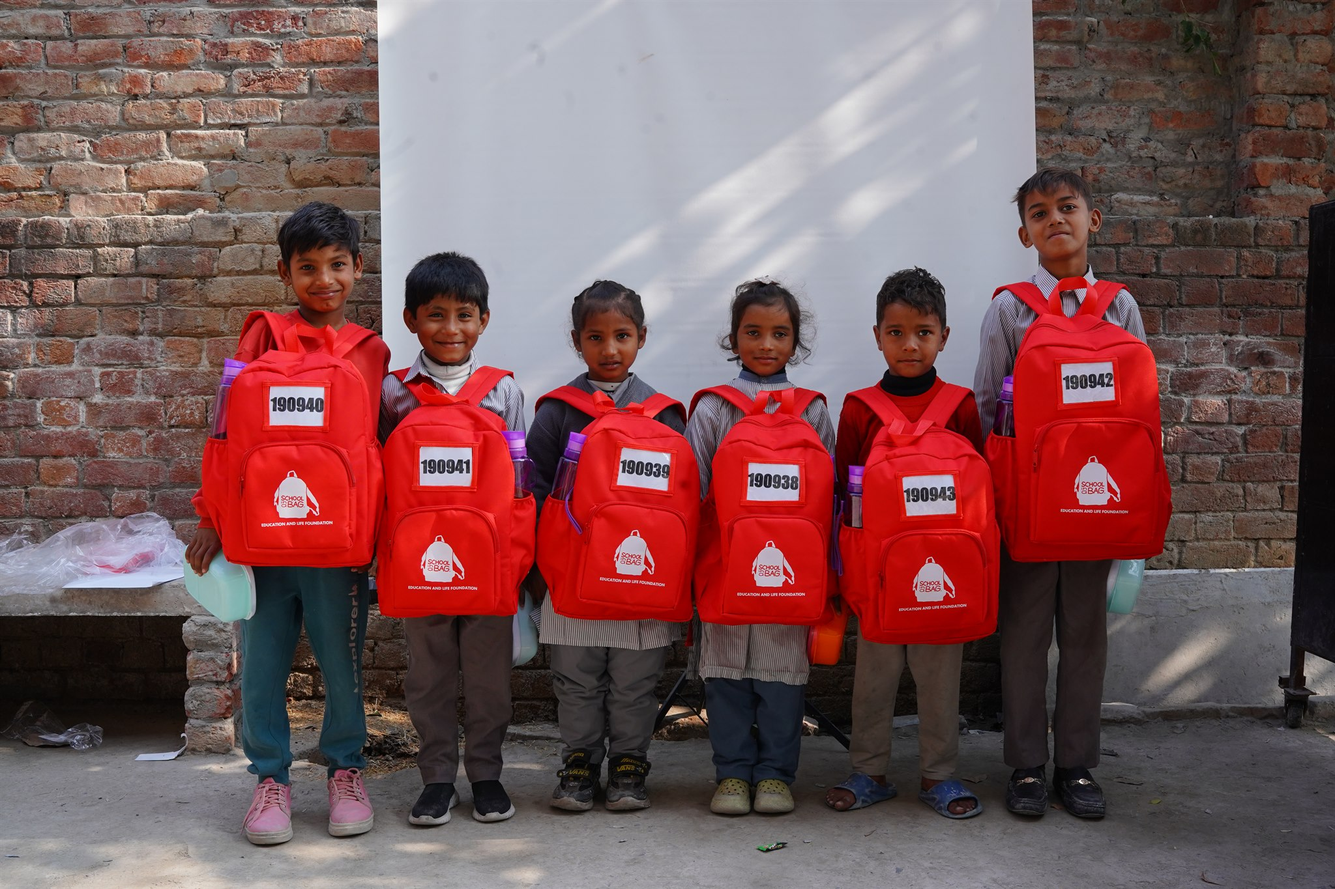
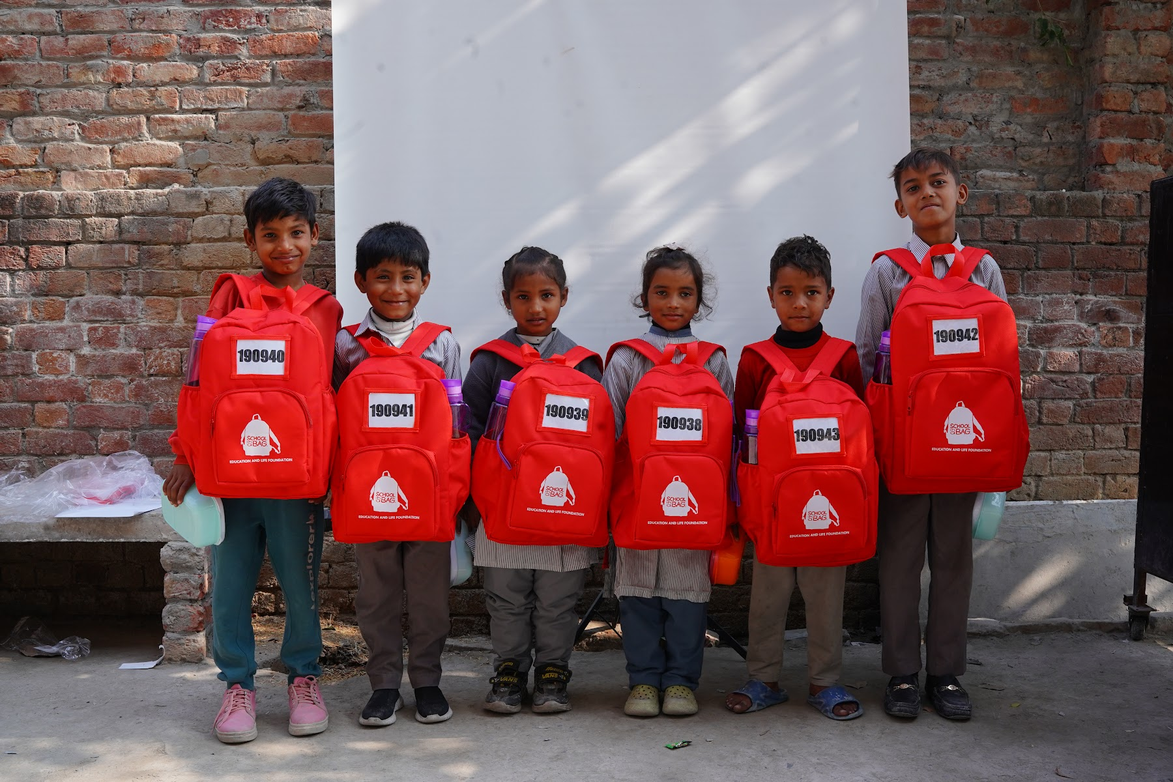
Update School in a Bag gallery with diverse scenes and large group photos

diff --git a/src/routes/projects.$slug.tsx b/src/routes/projects.$slug.tsx
@@ -185,32 +185,36 @@ const midwiferyPhotoDetails = [
 
 const schoolBagsPhotoDetails = [
   {
-    title: "Distribution Day Celebration",
-    desc: "Primary school students proudly holding their serialized, sponsor-funded School in A bag backpacks.",
+    title: "Active Classroom Reading & Instruction",
+    desc: "Over twenty primary pupils engaged with open textbooks and learning kits as their teacher conducts morning reading in the central aisle.",
   },
   {
-    title: "Active Classroom Learning",
-    desc: "Pupils at their desks equipped with fresh textbooks, exercise notebooks, and learning materials with their teacher.",
+    title: "Full-Classroom Literacy Session",
+    desc: "A packed classroom of students studying side by side, fully equipped with School in A bag stationery and learning supplies.",
   },
   {
-    title: "Tracked Backpack #174563",
-    desc: "Featured student wearing her dedicated School in A bag kit, complete with lunchbox and refillable water bottle.",
+    title: "Classroom Milestone & Distribution",
+    desc: "Students seated with their teacher as dedicated School in A bag backpacks are delivered and lined up for daily coursework.",
   },
   {
-    title: "Boys Secondary Cohort (Bags 191633–191637)",
-    desc: "Equipping young male students from vulnerable families with complete year-long learning resources.",
+    title: "Blackboard Instruction & Guided Study",
+    desc: "Subject instructor teaching at the blackboard while secondary students follow along in workbooks with their learning packs.",
   },
   {
-    title: "Girls Secondary Education (Bags 191629–191632)",
-    desc: "Empowering female students with full academic sets to ensure continuous retention and learning.",
+    title: "Courtyard Handover (Bags 190938–190943)",
+    desc: "Primary school children assembled in the school courtyard with their serialized backpacks, lunchboxes, and water bottles.",
   },
   {
-    title: "Direct District Handover (Bags 191315–191319)",
-    desc: "Direct, accountable delivery into the hands of named children across underserved districts.",
+    title: "Early Childhood Learners (Bags 191751–191755)",
+    desc: "Youngest kindergarten and nursery students equipped with essential starter kits to support early learning foundations.",
   },
   {
-    title: "Full Uniform & Equipment Milestone",
-    desc: "Students in school uniform fully prepared for the academic year with essential learning kits.",
+    title: "Girls Secondary Retention (Bags 191676–191679)",
+    desc: "Empowering older female students with complete academic sets to encourage secondary retention and graduation.",
+  },
+  {
+    title: "Secondary Student Cohort (Bags 191321–191326)",
+    desc: "Equipping young men and women across vulnerable communities with essential supplies for continuous academic progress.",
   },
 ];
 

diff --git a/src/data/projects.ts b/src/data/projects.ts
@@ -94,13 +94,14 @@ export const projects: Project[] = [
     ],
     image: "/images/school-bags/IMG_9475.JPG",
     gallery: [
-      "/images/school-bags/IMG_9475.JPG",
-      "/images/school-bags/DSC09384.JPG",
-      "/images/school-bags/IMG_9835.JPG",
-      "/images/school-bags/DSC01252.JPG",
-      "/images/school-bags/DSC01207.JPG",
-      "/images/school-bags/DSC02848.JPG",
-      "/images/school-bags/DSC01220.JPG",
+      "/images/school-bags/DSC09371.JPG",
+      "/images/school-bags/DSC09450.JPG",
+      "/images/school-bags/DSC00031.JPG",
+      "/images/school-bags/DSC09762.JPG",
+      "/images/school-bags/DSC01043.JPG",
+      "/images/school-bags/DSC02270.JPG",
+      "/images/school-bags/DSC01553.JPG",
+      "/images/school-bags/DSC02868.JPG",
     ],
     heroPosition: "object-[center_28%]",
     accent: "clay",
